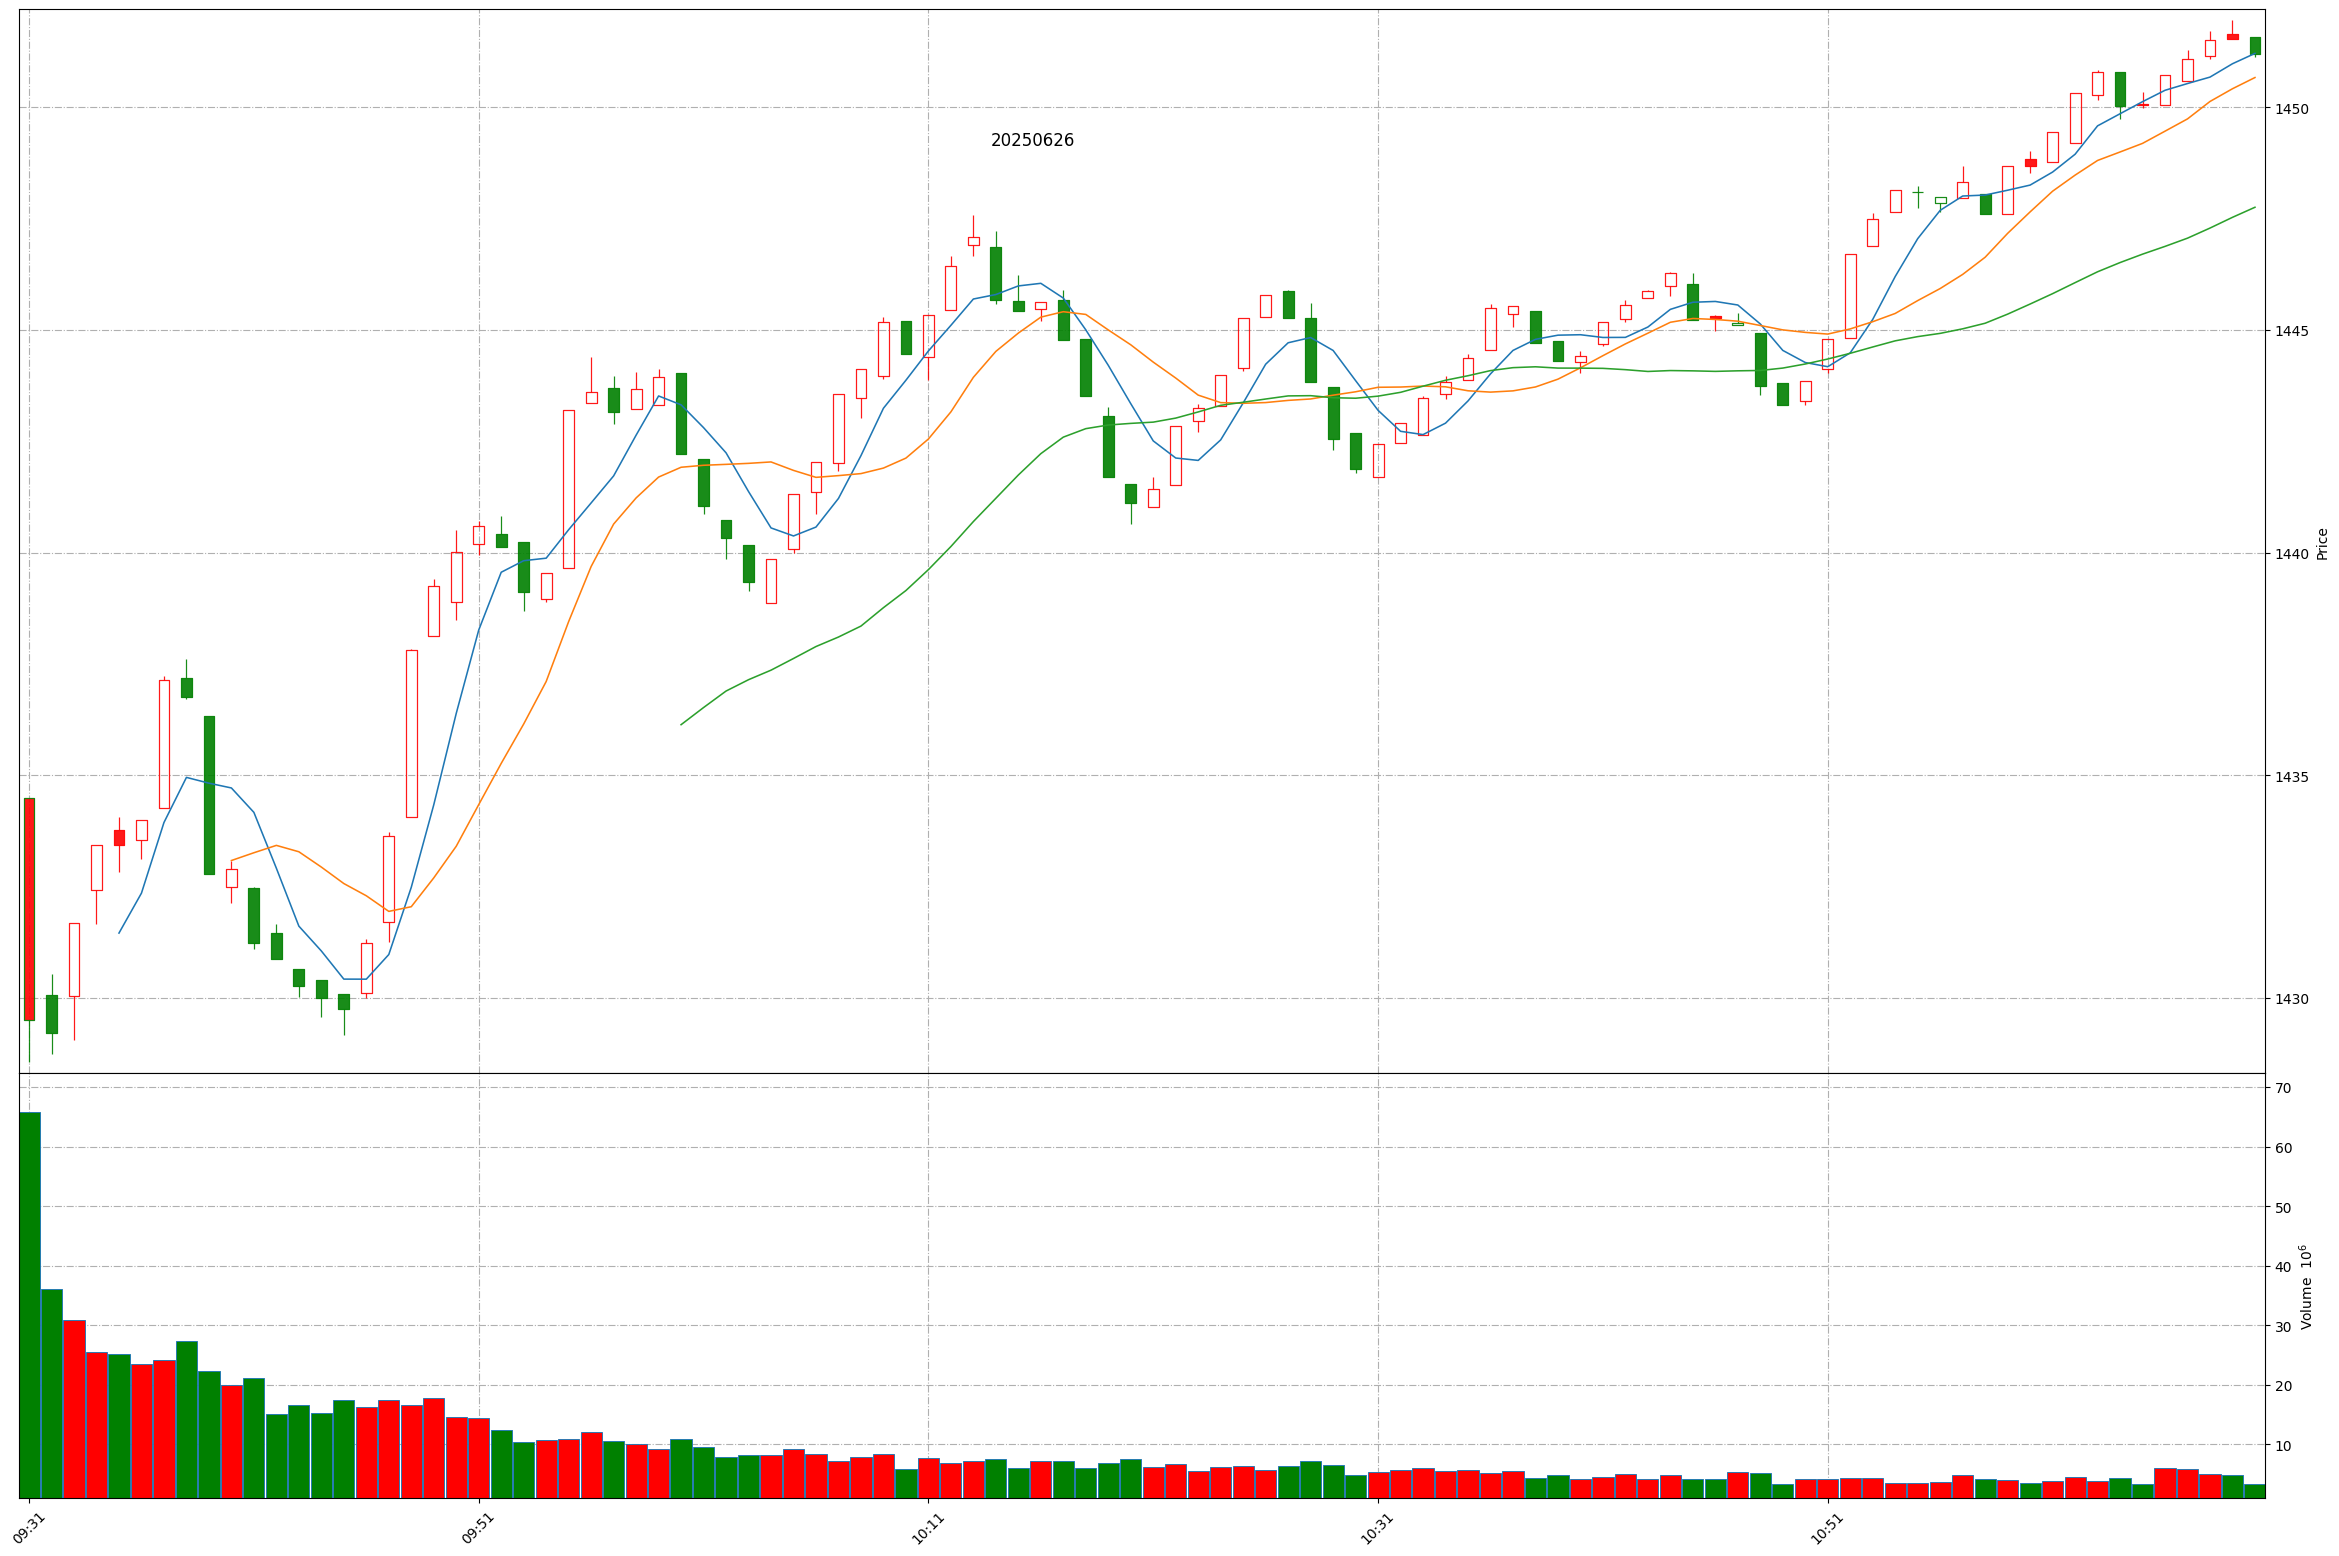
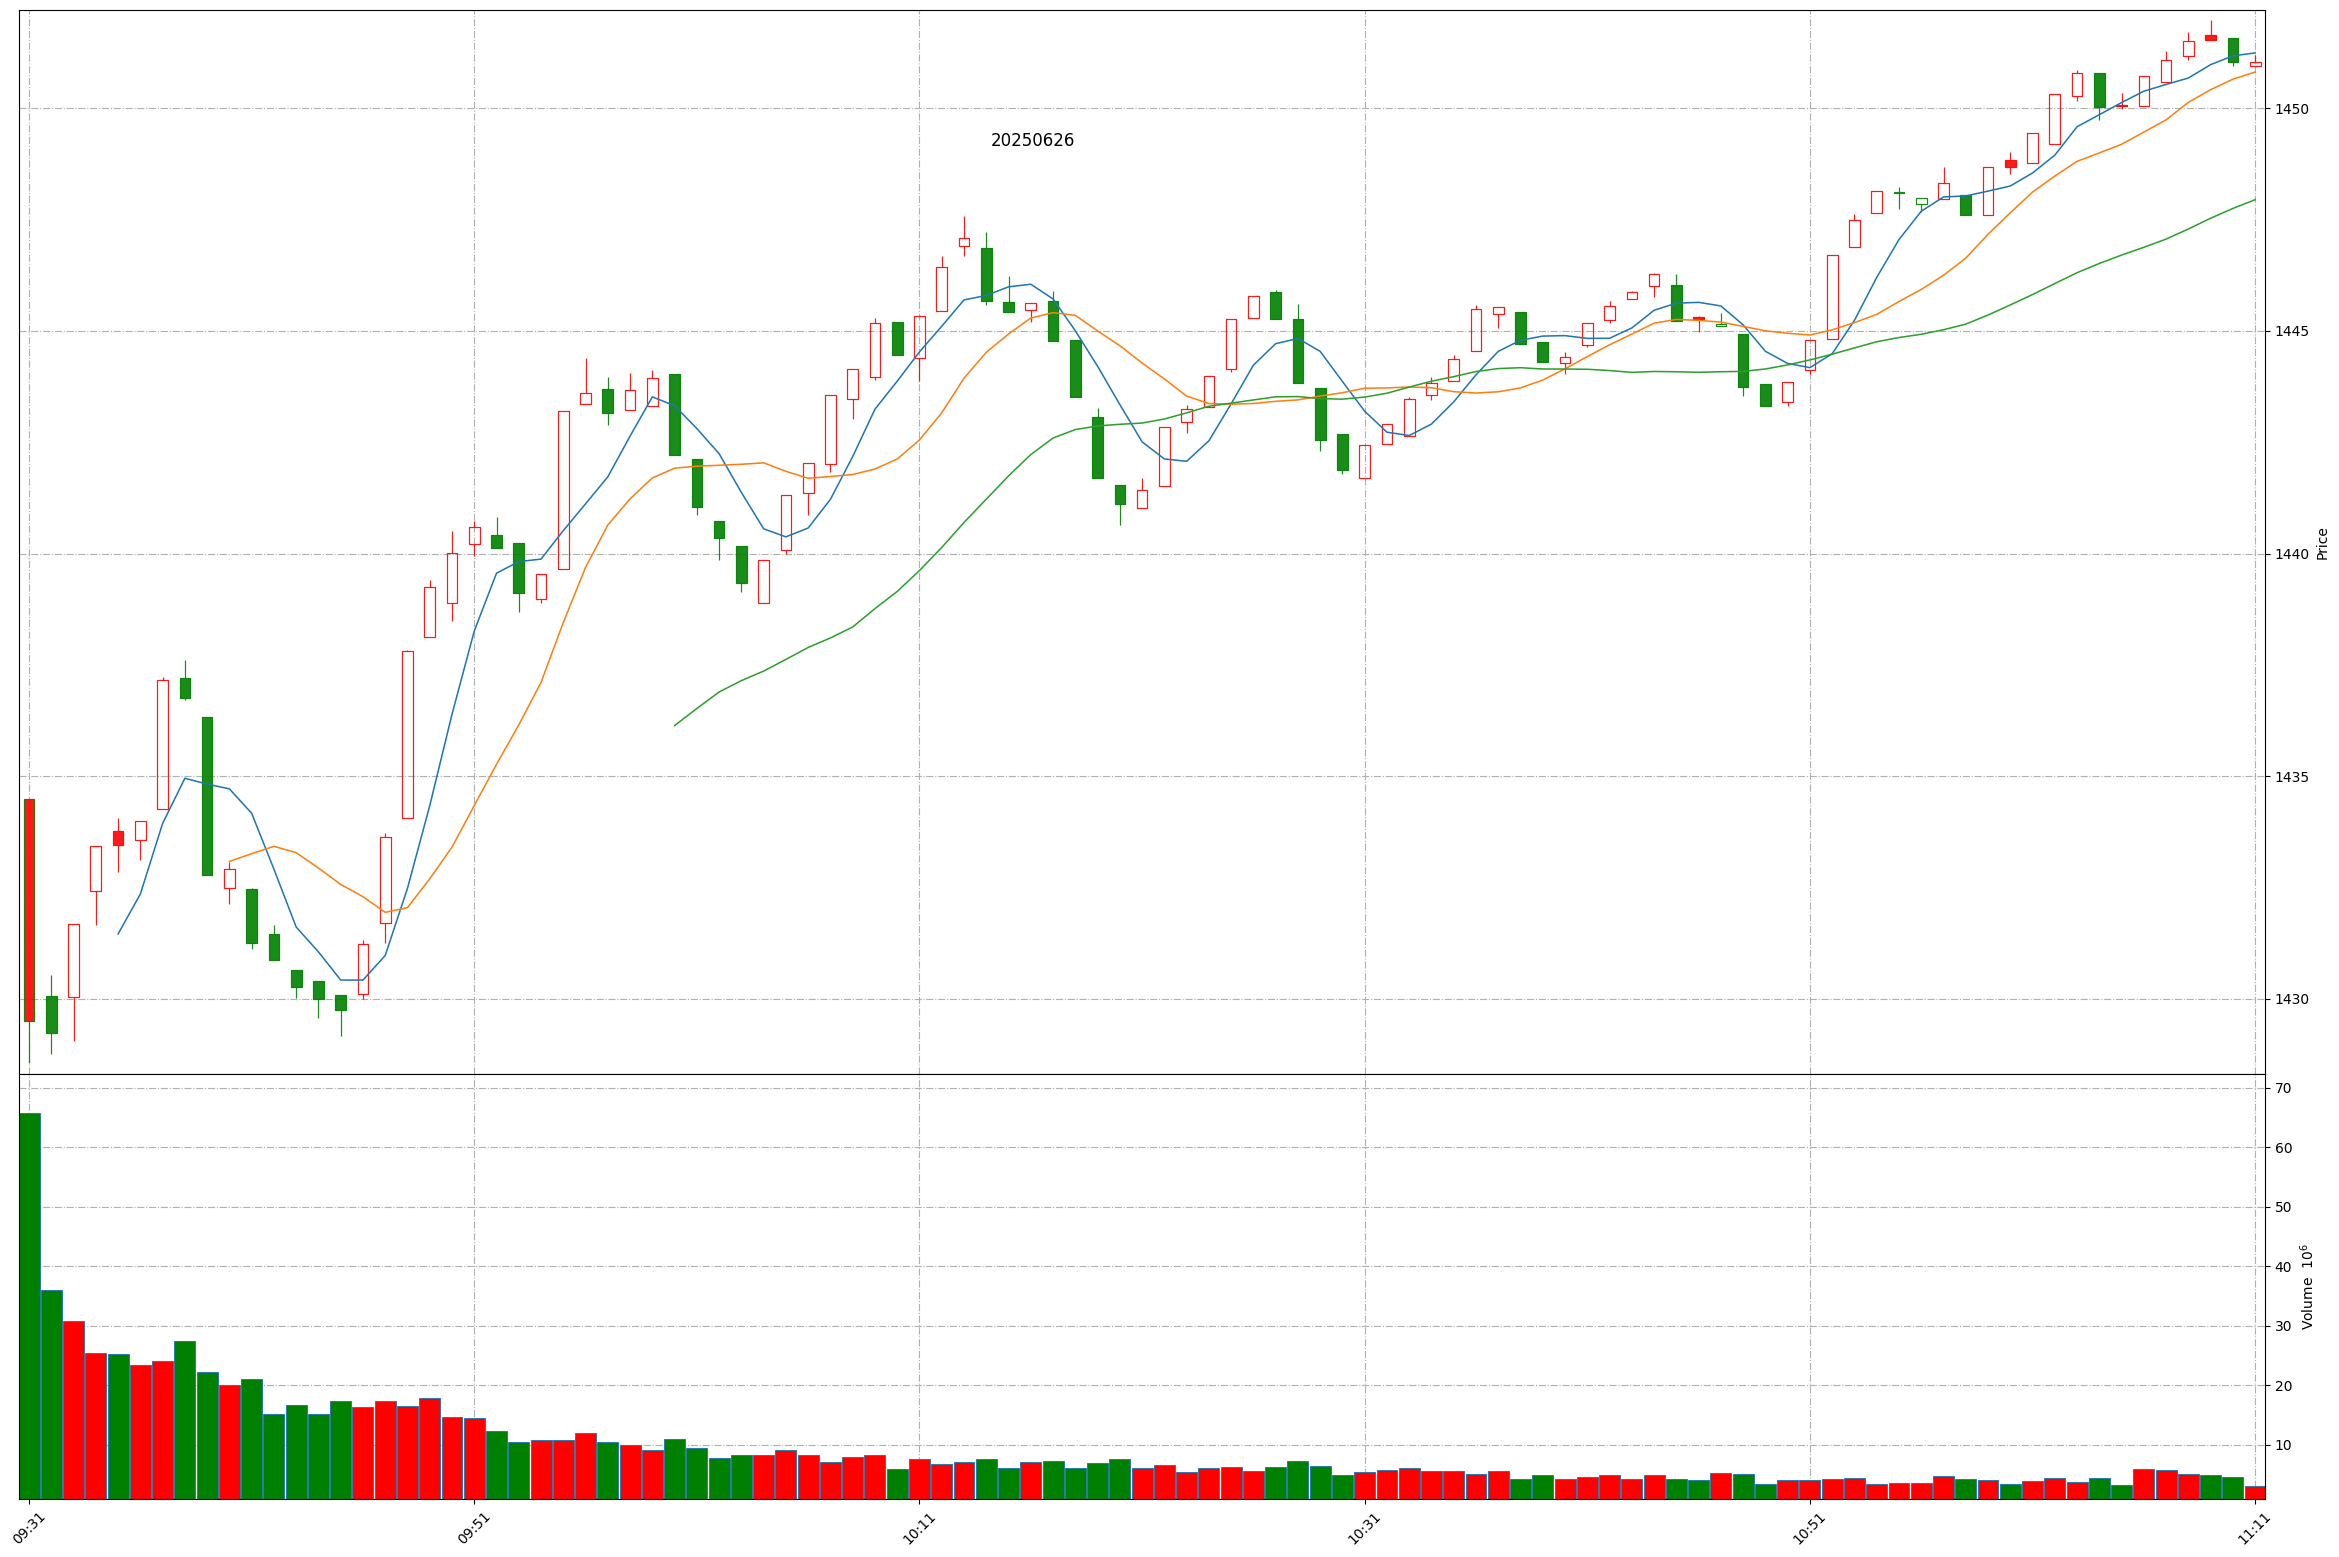
Github action update at 2025-06-26 11:10:58.

diff --git a/README.md b/README.md
@@ -1,11 +1,11 @@
 
 # Daily-A-share-market-quotes 每日 A 股指数（5min 更新）- 20250626
 
-### 上证指数 20250626 11:9
+### 上证指数 20250626 11:10
 ![](./fig/2025/6/20250626-sh000001.png)
 
-### 深证成指 20250626 11:9
+### 深证成指 20250626 11:10
 ![](./fig/2025/6/20250626-sz399001.png)
 
-### 北证50 20250626 11:9
+### 北证50 20250626 11:10
 ![](./fig/2025/6/20250626-bj899050.png)
